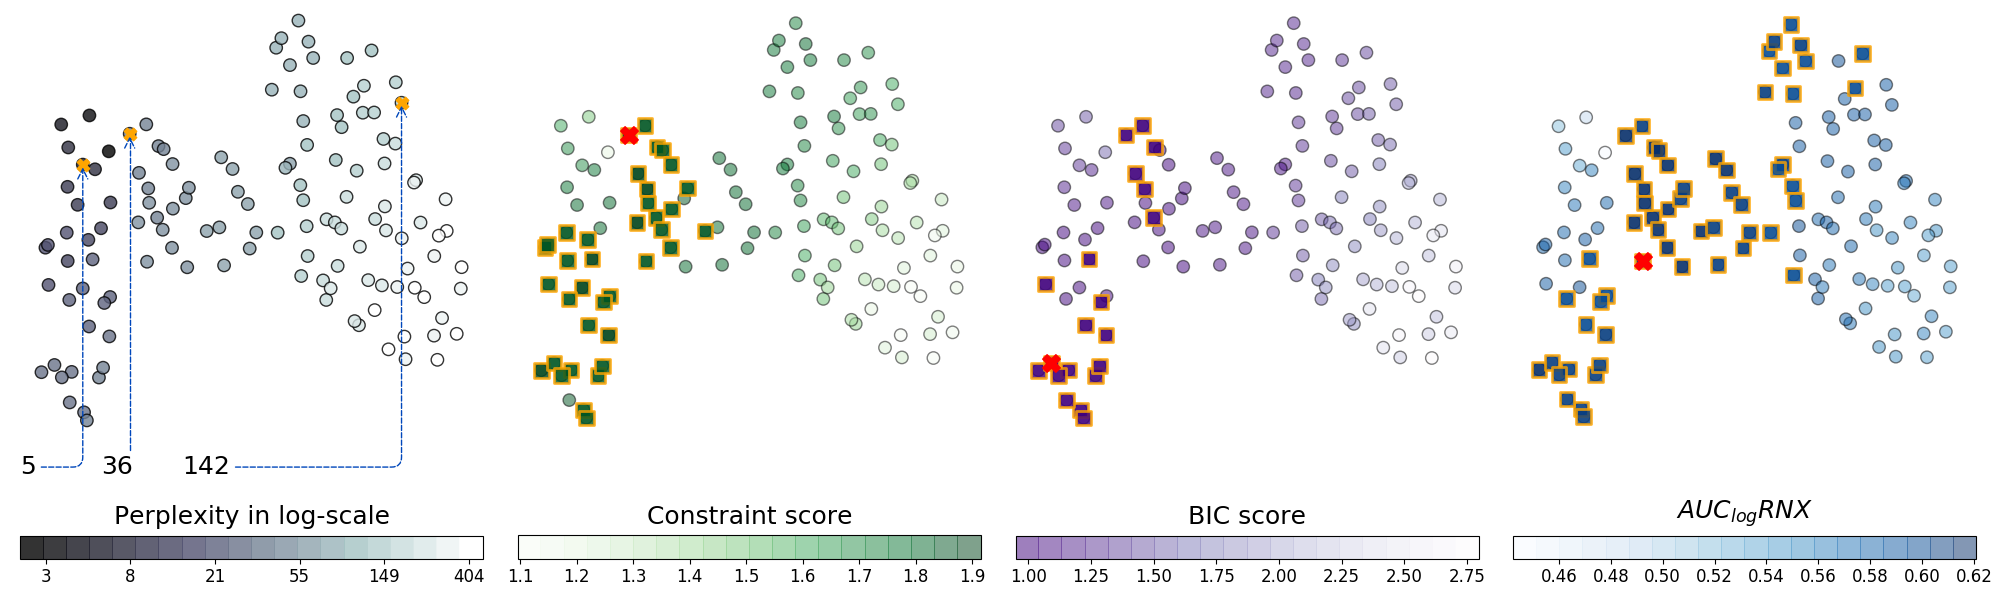
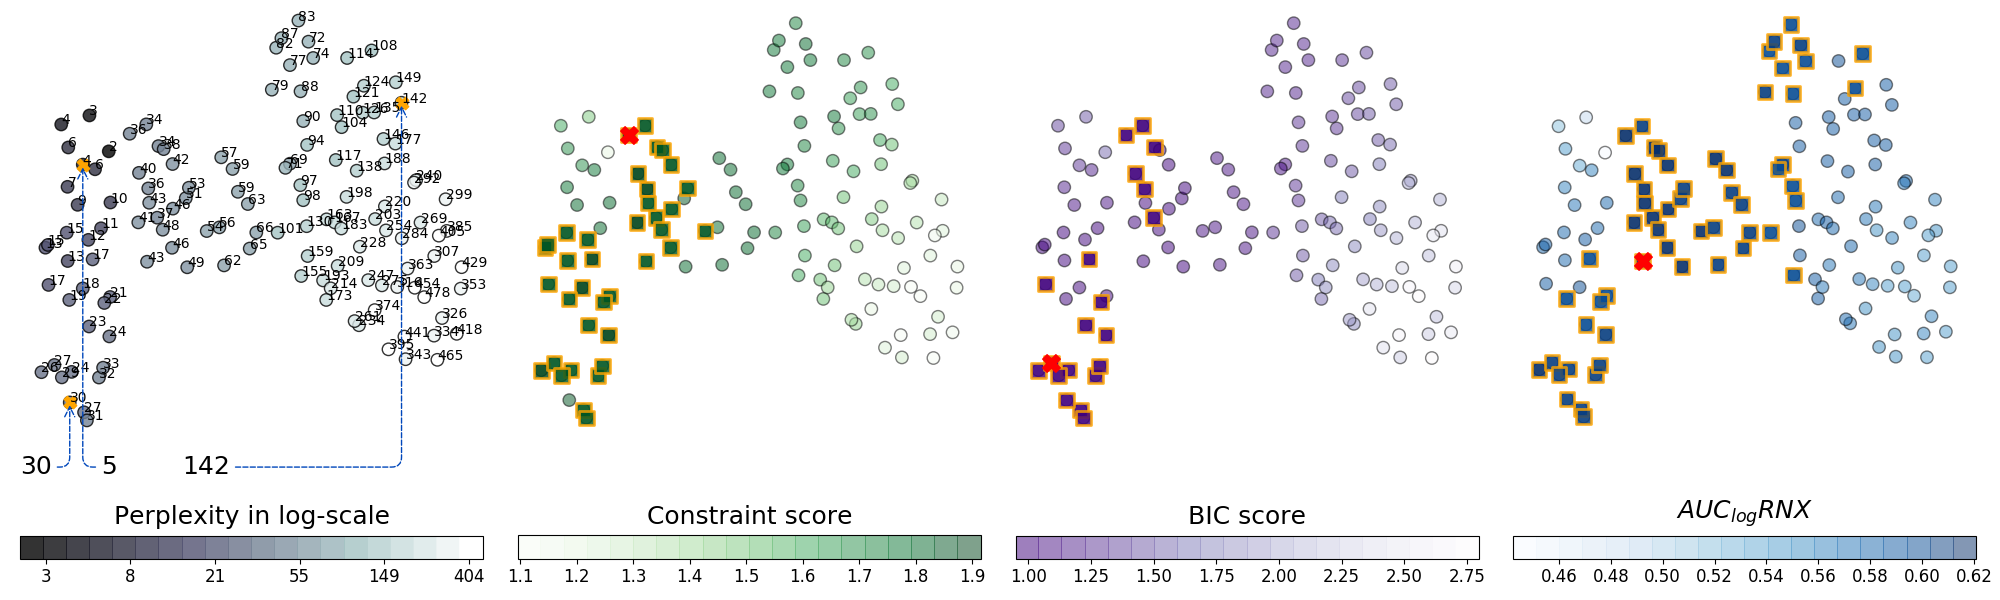
update selected perps for tsne FASHION1000

diff --git a/code/plot_viz.py b/code/plot_viz.py
@@ -132,7 +132,7 @@ def _simple_scatter_with_colorbar(
         cb.ax.set_xticklabels([math.ceil(math.exp(i)) for i in range(nbins + 1)])
 
     if not plot_for_score_values:
-        # debug show param
+        # debug show param in the metmap
         for s, (x, y) in zip(labels, Z):
             ax.text(x=x, y=y, s=str(int(math.exp(s))), fontsize=10)
 
@@ -432,6 +432,7 @@ def plot_metamap_with_scores_umap(
 
 def annotate_selected_params_tsne(ax, list_annotations):
     print(list_annotations)
+    offset = 1.0 / len(list_annotations)
     # sort by x coordinate
     for i, (perp_val, pos_x, pos_y) in enumerate(sorted(list_annotations, key=lambda p: p[1])):
         ax.scatter(pos_x, pos_y, marker="X", color="orange", s=80)
@@ -440,7 +441,7 @@ def annotate_selected_params_tsne(ax, list_annotations):
             str(perp_val),
             xy=(pos_x, pos_y),
             xycoords="data",
-            xytext=(i * 0.175, -0.075),
+            xytext=(i * offset, -0.075),
             textcoords="axes fraction",
             arrowprops=dict(
                 arrowstyle="->",
@@ -485,8 +486,8 @@ def get_params_to_show(dataset_name, method_name):
         "=": "   ▯",
         "-": "   ⇩",
         "--": " ⇩⇩",
-        "": "    ",
         "~": "   ☆",
+        "": "     ",
     }
 
     method_text_map = {
@@ -592,7 +593,12 @@ def get_params_to_show(dataset_name, method_name):
             ],
         },
         "FASHION1000": {
-            "tsne": [(36, "++qij, ~prediction"), (10, "++rnx"), (80, "+bic"), (220, "--all")],
+            "tsne": [
+                (36, "++qij, +bic, ++rnx, ~prediction"),
+                (14, "+qij, --bic, ++rnx, "),
+                (69, "+qij, ++bic, =rnx"),
+                (220, "--all"),
+            ],
             "umap": [
                 (4, 0.01, "++qij, ~prediction"),
                 (4, 0.2154, "++rnx, +qij"),

diff --git a/tex/v1.tex b/tex/v1.tex
@@ -774,8 +774,16 @@ Our idea is to use the pairwise constraint to modify the kernel in the covarianc
 
 \begin{figure*}
 \centering
-\includegraphics[width=\textwidth]{{COIL20_tsne_metamap}.png}
-\caption{Metamap for tSNE embeddings of COIL20 dataset.}
+\begin{subfigure}[b]{\textwidth}
+    \centering
+    \includegraphics[width=\textwidth]{{COIL20_tsne_metamap}.png}
+    \caption{Metamap for tSNE embeddings of COIL20 dataset.}
+\end{subfigure}
+~
+\begin{subfigure}[b]{\textwidth}
+    \includegraphics[width=\textwidth]{COIL20_tsne_show}
+    \caption{Sample vizs COIL20}
+\end{subfigure}
 \end{figure*}
 
 
